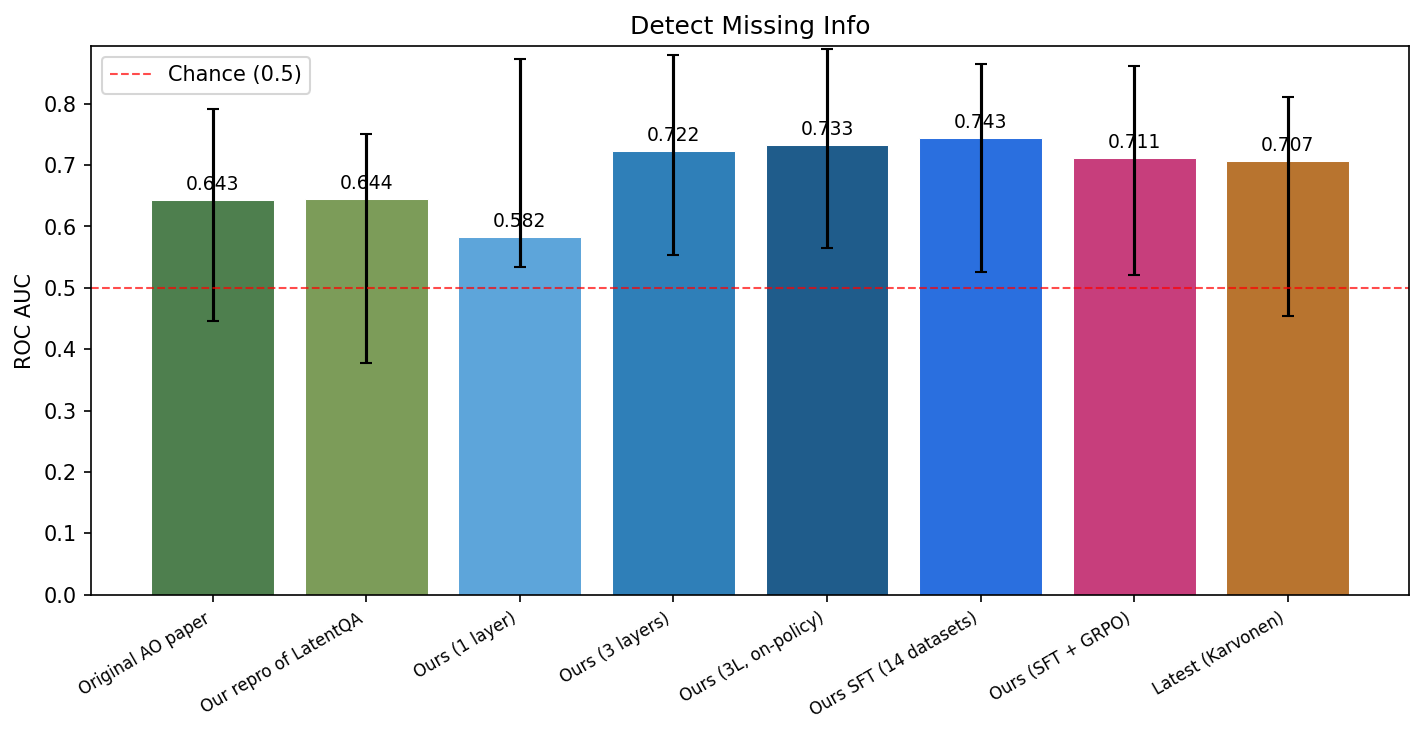
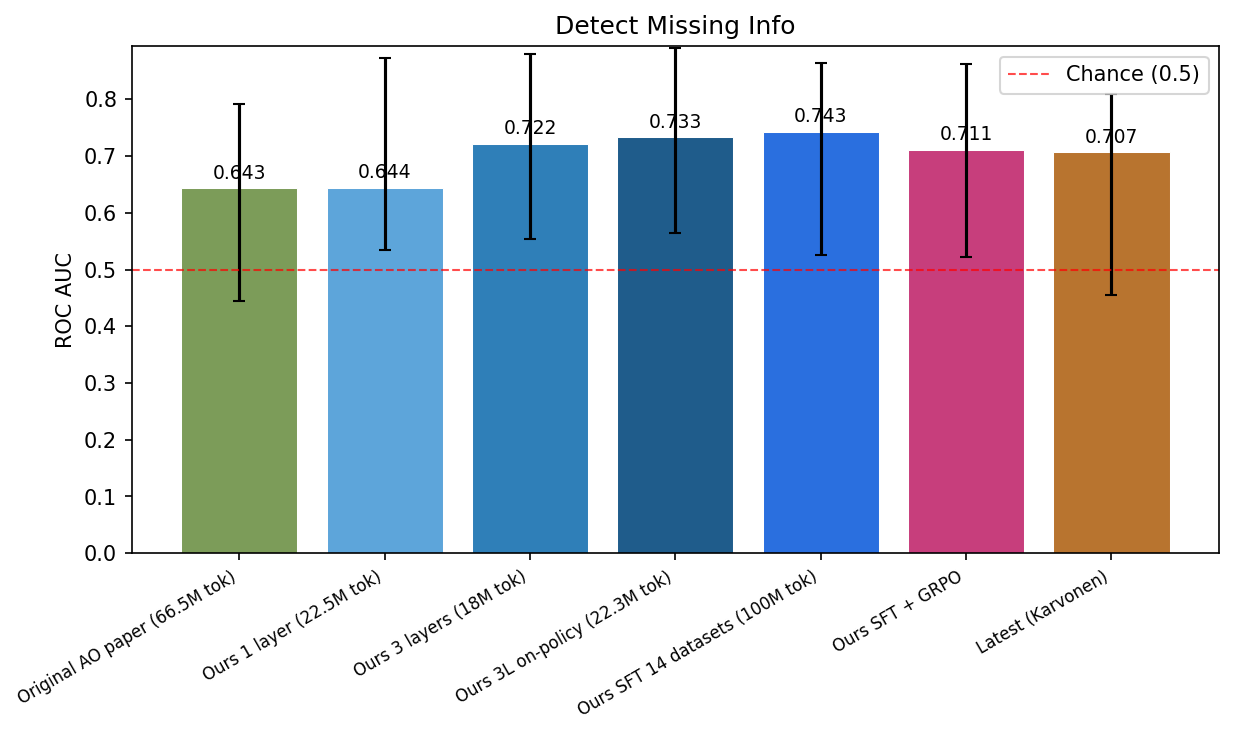
AObench: add token counts to legends, remove Our repro of LatentQA, soft green for Adam's original

diff --git a/AObench/utils/report.py b/AObench/utils/report.py
@@ -336,38 +336,39 @@ DISPLAY_NAMES: dict[str, str] = {
     "latentqa_cls_past_lens_addition_Qwen3-8B": "Adam's AO",
     "checkpoints_latentqa_cls_on_policy_Qwen3-8B": "Adam's on-policy",
     "latentqa_cls_on_policy_Qwen3-8B": "Adam's on-policy",
-    "adam-reupload-qwen3-8b-latentqa-cls-past-lens": "Original AO paper",
+    "adam-reupload-qwen3-8b-latentqa-cls-past-lens": "Original AO paper (66.5M tok)",
     "adam-reupload-qwen3-8b-full-mix-synthetic-qa-v3-replace-lqa": "Latest (Karvonen)",
-    "cot-oracle-paper-ablation-adam-recipe-1layer": "Our repro of LatentQA",
-    "cot-oracle-paper-ablation-ours-1layer": "Ours (1 layer)",
-    "cot-oracle-paper-ablation-ours-3layers": "Ours (3 layers)",
-    "cot-oracle-paper-ablation-ours-3layers-onpolicy-lens-only": "Ours (3L, on-policy)",
-    "cot-oracle-qwen3-8b-final-sprint-checkpoint-no-DPO": "Ours SFT (14 datasets)",
-    "qwen3-8b-final-sprint-checkpoint-no-DPO": "Ours SFT (14 datasets)",
-    "cot-oracle-grpo-v1": "Ours (SFT + GRPO)",
-    "cot-oracle-grpo-step-500": "Ours (SFT + GRPO)",
+    "cot-oracle-paper-ablation-ours-1layer": "Ours 1 layer (22.5M tok)",
+    "cot-oracle-paper-ablation-ours-3layers": "Ours 3 layers (18M tok)",
+    "cot-oracle-paper-ablation-ours-3layers-onpolicy-lens-only": "Ours 3L on-policy (22.3M tok)",
+    "cot-oracle-qwen3-8b-final-sprint-checkpoint-no-DPO": "Ours SFT 14 datasets (100M tok)",
+    "qwen3-8b-final-sprint-checkpoint-no-DPO": "Ours SFT 14 datasets (100M tok)",
+    "cot-oracle-grpo-v1": "Ours SFT + GRPO",
+    "cot-oracle-grpo-step-500": "Ours SFT + GRPO",
     "checkpoints_Qwen3-8B_full_mix_synthetic_qa_v3_replace_lqa": "Adam's synth-QA-v3",
     "Qwen3-8B_full_mix_synthetic_qa_v3_replace_lqa": "Adam's synth-QA-v3",
 }
 
+EXCLUDED_VERBALIZERS = {
+    "cot-oracle-paper-ablation-adam-recipe-1layer",
+}
+
 DISPLAY_COLORS: dict[str, str] = {
-    "Original AO paper": "#4E7F4E",
+    "Original AO paper (66.5M tok)": "#7C9C59",
     "Latest (Karvonen)": "#B8742F",
-    "Our repro of LatentQA": "#7C9C59",
-    "Ours (1 layer)": "#5DA5DA",
-    "Ours (3 layers)": "#2F7FB8",
-    "Ours (3L, on-policy)": "#1F5C8B",
-    "Ours SFT (14 datasets)": "#2A6FDF",
-    "Ours (SFT + GRPO)": "#C73E7C",
+    "Ours 1 layer (22.5M tok)": "#5DA5DA",
+    "Ours 3 layers (18M tok)": "#2F7FB8",
+    "Ours 3L on-policy (22.3M tok)": "#1F5C8B",
+    "Ours SFT 14 datasets (100M tok)": "#2A6FDF",
+    "Ours SFT + GRPO": "#C73E7C",
 }
 DISPLAY_ORDER = [
-    "Original AO paper",
-    "Our repro of LatentQA",
-    "Ours (1 layer)",
-    "Ours (3 layers)",
-    "Ours (3L, on-policy)",
-    "Ours SFT (14 datasets)",
-    "Ours (SFT + GRPO)",
+    "Original AO paper (66.5M tok)",
+    "Ours 1 layer (22.5M tok)",
+    "Ours 3 layers (18M tok)",
+    "Ours 3L on-policy (22.3M tok)",
+    "Ours SFT 14 datasets (100M tok)",
+    "Ours SFT + GRPO",
     "Latest (Karvonen)",
 ]
 
@@ -882,6 +883,8 @@ def generate_report(
             continue
         metrics = extract_verbalizer_metric(summary, eval_name)
         if metrics:
+            # Exclude specific verbalizers
+            metrics = {k: v for k, v in metrics.items() if k not in EXCLUDED_VERBALIZERS}
             # Filter to requested verbalizers
             if filter_verbalizers:
                 metrics = {
